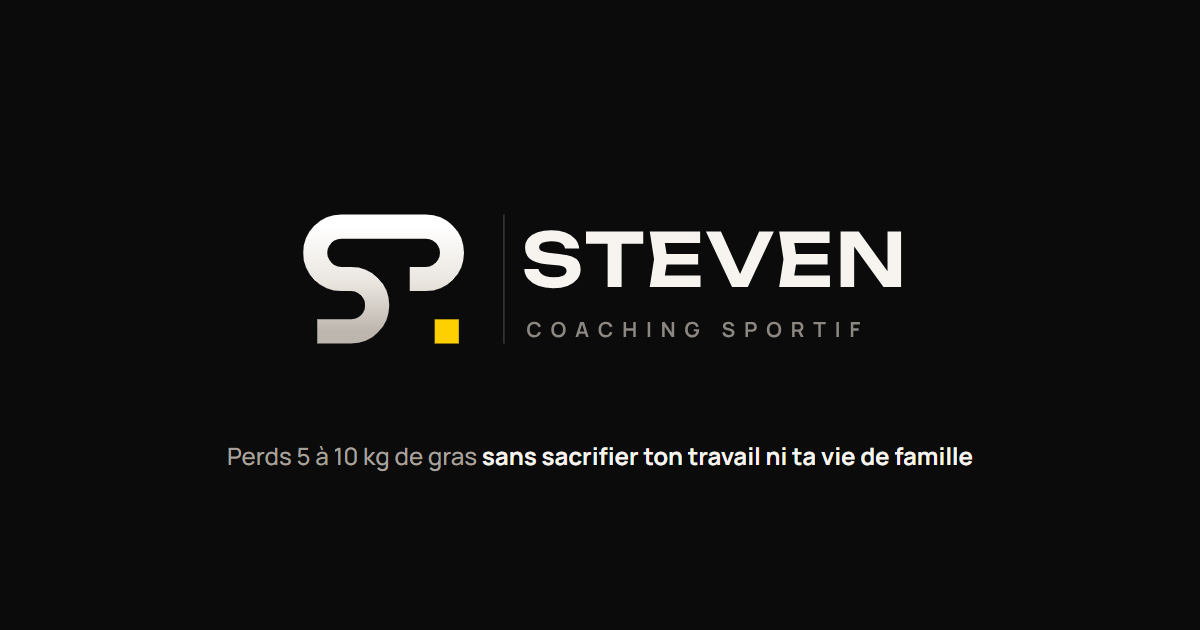
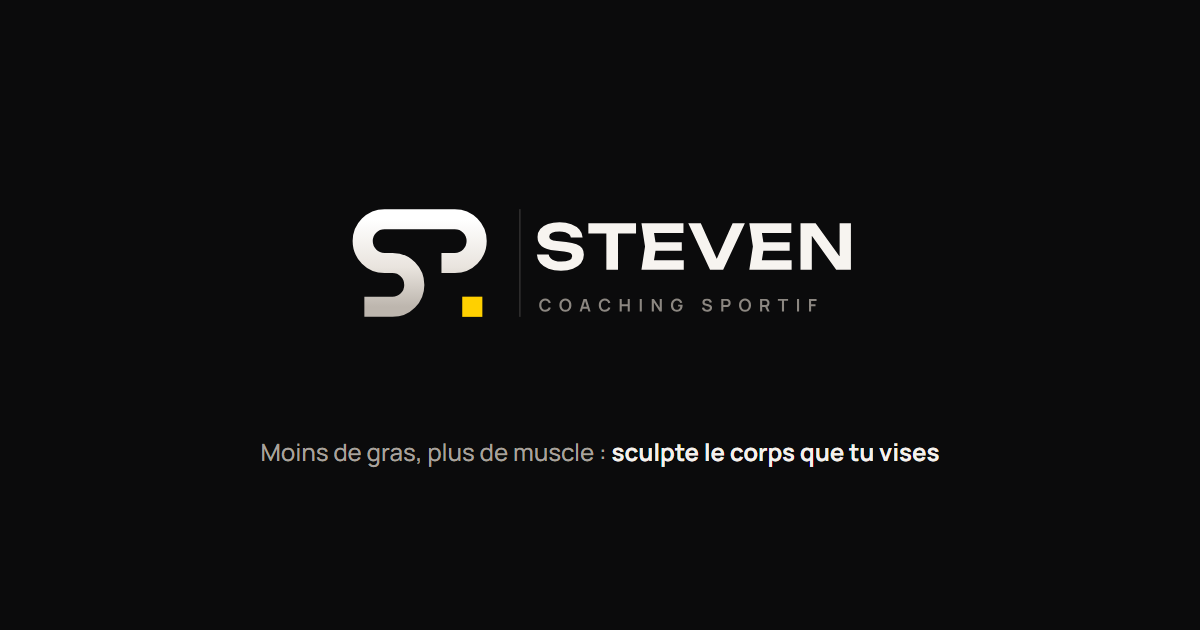
Nouveau positionnement : coaching pour femmes et hommes qui veulent sculpter leur corps
Textes de la page réécrits (perdre du gras, gagner du muscle), FAQ adaptée,
questionnaire avec genre et niveau d'entraînement, exemples de résultats mixtes
et nouvelle image de partage.

Changed region(s): [[0.2467, 0.3317, 0.7708, 0.5429], [0.185, 0.6937, 0.8325, 0.754]]

diff --git a/index.html b/index.html
@@ -3,14 +3,14 @@
 <head>
 <meta charset="utf-8">
 <meta name="viewport" content="width=device-width, initial-scale=1">
-<title>Steven Coaching · Coaching sportif pour hommes actifs de 30 ans et plus</title>
-<meta name="description" content="Perds 5 à 10 kg de gras avec un plan d'entraînement et de nutrition construit autour de ton emploi du temps. Suivi hebdomadaire et accès direct à Steven sur WhatsApp.">
+<title>Steven Coaching · Coaching en ligne pour sculpter ton corps</title>
+<meta name="description" content="Perds du gras, gagne du muscle et sculpte ta silhouette avec un programme d'entraînement et de nutrition sur mesure, pour femmes et hommes. Bilan chaque semaine et accès direct à Steven sur WhatsApp.">
 <meta name="theme-color" content="#131209">
 <link rel="icon" href="favicon.svg" type="image/svg+xml">
 <link rel="apple-touch-icon" href="assets/apple-touch-icon.png">
 <meta property="og:type" content="website">
-<meta property="og:title" content="Steven Coaching · Coaching sportif pour hommes actifs">
-<meta property="og:description" content="Un plan d'entraînement et de nutrition construit autour de ta vraie vie. Réponds à 8 questions pour vérifier ton éligibilité.">
+<meta property="og:title" content="Steven Coaching · Sculpte le corps que tu vises">
+<meta property="og:description" content="Moins de gras, plus de muscle : un programme d'entraînement et de nutrition sur mesure, suivi chaque semaine. Réponds à 8 questions pour vérifier ton éligibilité.">
 <meta property="og:image" content="assets/og-image.png">
 <meta name="twitter:card" content="summary_large_image">
 <link rel="preconnect" href="https://fonts.googleapis.com">
@@ -48,15 +48,15 @@
   <!-- 1. Hero -->
   <section class="hero">
     <div class="container">
-      <span class="badge rise"><span class="pulse"></span>Pour les hommes actifs de 30 ans et plus</span>
-      <h1 class="h1" id="heroTitle">Perds 5 à 10 kg de gras<br class="br-md"> sans sacrifier ton travail<br class="br-md"> ni ta vie de famille</h1>
-      <p class="lede rise">Un plan d'entraînement et de nutrition construit autour de ton agenda réel, ajusté chaque semaine avec moi. Pas de séances de deux heures, pas de régime intenable.</p>
+      <span class="badge rise"><span class="pulse"></span>Coaching en ligne pour femmes et hommes</span>
+      <h1 class="h1" id="heroTitle">Moins de gras,<br> plus de muscle :<br> sculpte le corps<br> que tu vises</h1>
+      <p class="lede rise">Un programme d'entraînement et de nutrition taillé pour ton corps, ton niveau et ton objectif. Ajusté chaque semaine avec moi, jusqu'à ce que ton reflet te donne raison.</p>
       <div class="hero-actions rise">
         <a href="#postuler" class="btn btn-primary">Vérifier mon éligibilité <i class="ph ph-arrow-right"></i></a>
         <span class="small">8 questions · 3 minutes · réponse sous 24h</span>
       </div>
       <div class="proof-row rise">
-        <span><i class="ph-fill ph-users-three"></i><strong data-proof-clients>100+</strong>&nbsp;hommes accompagnés</span>
+        <span><i class="ph-fill ph-users-three"></i><strong data-proof-clients>100+</strong>&nbsp;élèves accompagnés</span>
         <span><i class="ph-fill ph-calendar-check"></i>Bilan chaque semaine</span>
         <span><i class="ph-fill ph-whatsapp-logo"></i>Accès direct sur WhatsApp</span>
       </div>
@@ -77,26 +77,26 @@
     <div class="container">
       <div class="section-head center reveal">
         <span class="eyebrow">Le vrai problème</span>
-        <h2 class="h2">Tu t'entraînes déjà.<br class="br-md"> Ton corps, lui, ne bouge plus.</h2>
-        <p class="lede">Ce n'est presque jamais une question d'effort. C'est l'absence d'un plan pensé pour ta semaine.</p>
+        <h2 class="h2">Tu transpires à chaque séance.<br class="br-md"> Ton reflet, lui, ne change pas.</h2>
+        <p class="lede">Le problème vient rarement de ta motivation. Il vient de l'absence d'un plan précis pour ton corps et ton objectif.</p>
       </div>
       <div class="grid grid-2 reveal-group">
         <div class="card">
-          <h3 class="h3"><i class="ph ph-x-circle" style="color:var(--faint)"></i>Seul, sans cadre</h3>
+          <h3 class="h3"><i class="ph ph-x-circle" style="color:var(--faint)"></i>Sans plan précis</h3>
           <ul class="list bad">
-            <li><i class="ph ph-minus"></i>Des séances improvisées selon l'humeur du jour</li>
-            <li><i class="ph ph-minus"></i>Une alimentation sérieuse en semaine, qui lâche le samedi soir</li>
-            <li><i class="ph ph-minus"></i>Aucun repère pour savoir quoi ajuster, ni quand</li>
+            <li><i class="ph ph-minus"></i>Des séances copiées sur Instagram, sans logique de progression</li>
+            <li><i class="ph ph-minus"></i>Des heures de cardio qui fatiguent sans jamais sculpter</li>
+            <li><i class="ph ph-minus"></i>Un régime trop strict, puis l'effet yoyo</li>
             <li><i class="ph ph-minus"></i>Des mois d'efforts pour un miroir qui ne change pas</li>
           </ul>
         </div>
         <div class="card is-good">
           <h3 class="h3"><i class="ph-fill ph-check-circle" style="color:var(--ok)"></i>Avec ton plan sur mesure</h3>
           <ul class="list good">
-            <li><i class="ph ph-check"></i>Des séances calées sur ton temps réellement disponible</li>
-            <li><i class="ph ph-check"></i>Une nutrition souple qui tient avec les repas pro et les sorties</li>
-            <li><i class="ph ph-check"></i>Un bilan chaque semaine et des ajustements précis</li>
-            <li><i class="ph ph-check"></i>Des résultats visibles, semaine après semaine</li>
+            <li><i class="ph ph-check"></i>Un programme construit pour ton objectif : affiner, muscler ou les deux</li>
+            <li><i class="ph ph-check"></i>Une nutrition qui fait fondre le gras sans te priver de tout</li>
+            <li><i class="ph ph-check"></i>Des charges qui progressent pour des muscles qui se dessinent</li>
+            <li><i class="ph ph-check"></i>Un bilan chaque semaine et des résultats que tu vois dans le miroir</li>
           </ul>
         </div>
       </div>
@@ -106,7 +106,7 @@
   <!-- 3. Phrase révélée mot à mot -->
   <section class="tagline" aria-label="Notre conviction">
     <div class="container">
-      <p id="tagline">Ce n'est pas ta volonté qui coince. C'est <span class="accent">l'absence d'un plan</span> taillé pour ta vraie vie.</p>
+      <p id="tagline">Un corps sculpté ne doit rien au hasard. Il naît <span class="accent">d'un plan précis</span> suivi semaine après semaine.</p>
     </div>
   </section>
 
@@ -116,7 +116,7 @@
       <div class="carousel-head section-head reveal">
         <div>
           <span class="eyebrow">Résultats d'élèves</span>
-          <h2 class="h2">Des agendas pleins.<br class="br-md"> Des corps qui changent quand même.</h2>
+          <h2 class="h2">Des femmes et des hommes<br class="br-md"> qui ont redessiné leur silhouette</h2>
         </div>
       </div>
       <div class="carousel reveal" data-carousel>
@@ -137,16 +137,16 @@
     <div class="container">
       <div class="section-head center reveal">
         <span class="eyebrow">L'accompagnement</span>
-        <h2 class="h2">Trois mois où tu n'as<br class="br-md"> plus rien à deviner</h2>
-        <p class="lede">Chaque élément est là pour une raison : t'éviter de stagner et te faire gagner du temps.</p>
+        <h2 class="h2">Trois mois où chaque séance<br class="br-md"> te rapproche de ton objectif</h2>
+        <p class="lede">Tout est pensé pour une seule chose : que tu perdes du gras, que tu gagnes du muscle et que tu ne stagnes jamais.</p>
       </div>
       <div class="grid grid-3 reveal-group">
-        <article class="card feature hover-lift"><div class="icon-tile"><i class="ph ph-calendar-dots"></i></div><h3 class="h3">Un plan autour de ton agenda</h3><p>Séances et nutrition calées sur tes horaires, tes contraintes et ton objectif.</p></article>
-        <article class="card feature hover-lift"><div class="icon-tile"><i class="ph ph-chart-line-up"></i></div><h3 class="h3">Un bilan chaque semaine</h3><p>On lit tes chiffres ensemble et on corrige le tir avant que tu ne stagnes.</p></article>
+        <article class="card feature hover-lift"><div class="icon-tile"><i class="ph ph-barbell"></i></div><h3 class="h3">Un programme taillé pour ton corps</h3><p>Exercices, volume et intensité choisis selon ton niveau et les zones que tu veux sculpter. Tout est dans ton application de suivi.</p></article>
+        <article class="card feature hover-lift"><div class="icon-tile"><i class="ph ph-bowl-food"></i></div><h3 class="h3">Une nutrition sans privation</h3><p>Calories et protéines calculées pour fondre ou construire, avec des repas que tu aimes vraiment.</p></article>
         <article class="card feature hover-lift"><div class="icon-tile"><i class="ph ph-video-camera"></i></div><h3 class="h3">Ta technique corrigée en vidéo</h3><p>Filme tes exercices, je te renvoie des corrections précises pour progresser sans te blesser.</p></article>
-        <article class="card feature hover-lift"><div class="icon-tile"><i class="ph ph-whatsapp-logo"></i></div><h3 class="h3">Une réponse rapide sur WhatsApp</h3><p>Un resto, un déplacement, un doute : tu sais quoi faire sans attendre le prochain bilan.</p></article>
-        <article class="card feature hover-lift"><div class="icon-tile"><i class="ph ph-device-mobile"></i></div><h3 class="h3">Une application de suivi</h3><p>Programme, progression et consignes réunis au même endroit, dans ta poche.</p></article>
-        <article class="card feature hover-lift"><div class="icon-tile"><i class="ph ph-users-three"></i></div><h3 class="h3">Le groupe des élèves</h3><p>Tu avances avec des hommes qui ont les mêmes objectifs et les mêmes contraintes.</p></article>
+        <article class="card feature hover-lift"><div class="icon-tile"><i class="ph ph-whatsapp-logo"></i></div><h3 class="h3">Une réponse rapide sur WhatsApp</h3><p>Un resto, une séance qui coince, un doute : tu sais quoi faire sans attendre le prochain bilan.</p></article>
+        <article class="card feature hover-lift"><div class="icon-tile"><i class="ph ph-users-three"></i></div><h3 class="h3">Le groupe des élèves</h3><p>Tu avances avec des personnes qui visent le même objectif que toi. La motivation devient contagieuse.</p></article>
+        <article class="card feature hover-lift"><div class="icon-tile"><i class="ph ph-chart-line-up"></i></div><h3 class="h3">Un bilan chaque semaine</h3><p>Mesures, photos et ressentis : on lit tout ensemble et on ajuste avant que tu ne stagnes.</p></article>
       </div>
     </div>
   </section>
@@ -159,8 +159,8 @@
         <h2 class="h2">Trois étapes pour démarrer</h2>
       </div>
       <ol class="grid grid-3 steps reveal-group" style="list-style:none">
-        <li class="card step-card"><div class="num">1</div><h3 class="h3">Tu réponds aux 8 questions</h3><p class="muted">Trois minutes pour me décrire ta situation, ton objectif et tes contraintes.</p></li>
-        <li class="card step-card"><div class="num">2</div><h3 class="h3">On fait un appel de 30 minutes</h3><p class="muted">Gratuit et sans engagement. On regarde ensemble ce qui bloque et ce qui est réaliste.</p></li>
+        <li class="card step-card"><div class="num">1</div><h3 class="h3">Tu réponds aux 8 questions</h3><p class="muted">Trois minutes pour me décrire ton objectif, ton niveau et ton rythme de vie.</p></li>
+        <li class="card step-card"><div class="num">2</div><h3 class="h3">On fait un appel de 30 minutes</h3><p class="muted">Gratuit et sans engagement. On fait le point sur ton corps, ce qui bloque et ce qui est réaliste.</p></li>
         <li class="card step-card"><div class="num">3</div><h3 class="h3">Ton plan démarre</h3><p class="muted">Si on travaille ensemble, tu reçois ton programme et ton premier bilan est fixé.</p></li>
       </ol>
     </div>
@@ -191,39 +191,48 @@
 
             <fieldset class="step" data-idx="0" style="border:0">
               <legend class="step-title">Quel est ton objectif principal ?</legend>
-              <p class="step-note">Tes réponses m'aident à comprendre ta situation avant toute proposition.</p>
+              <p class="step-note">Tes réponses m'aident à comprendre ton point de départ avant toute proposition.</p>
               <div class="options">
                 <label class="opt"><input type="radio" name="objectif" value="Perdre du gras" required><span class="radio"></span>Perdre du gras</label>
                 <label class="opt"><input type="radio" name="objectif" value="Gagner du muscle"><span class="radio"></span>Gagner du muscle</label>
-                <label class="opt"><input type="radio" name="objectif" value="Les deux (recomposition)"><span class="radio"></span>Les deux à la fois</label>
-                <label class="opt"><input type="radio" name="objectif" value="Repartir après un arrêt"><span class="radio"></span>Repartir après un arrêt</label>
+                <label class="opt"><input type="radio" name="objectif" value="Sculpter mon corps (perdre du gras et gagner du muscle)"><span class="radio"></span>Les deux : sculpter mon corps</label>
+                <label class="opt"><input type="radio" name="objectif" value="Tonifier et affiner ma silhouette"><span class="radio"></span>Tonifier et affiner ma silhouette</label>
               </div>
             </fieldset>
 
             <fieldset class="step" data-idx="1" hidden style="border:0">
-              <legend class="step-title">Depuis combien de temps tu stagnes malgré tes efforts ?</legend>
+              <legend class="step-title">Tu es ?</legend>
               <div class="options">
-                <label class="opt"><input type="radio" name="dureeBlocage" value="Moins de 3 mois" required><span class="radio"></span>Moins de 3 mois</label>
-                <label class="opt"><input type="radio" name="dureeBlocage" value="3 à 6 mois"><span class="radio"></span>Entre 3 et 6 mois</label>
-                <label class="opt"><input type="radio" name="dureeBlocage" value="6 à 12 mois"><span class="radio"></span>Entre 6 et 12 mois</label>
-                <label class="opt"><input type="radio" name="dureeBlocage" value="Plus d'un an"><span class="radio"></span>Plus d'un an</label>
+                <label class="opt"><input type="radio" name="genre" value="Une femme" required><span class="radio"></span>Une femme</label>
+                <label class="opt"><input type="radio" name="genre" value="Un homme"><span class="radio"></span>Un homme</label>
               </div>
               <div class="step-actions"><button type="button" class="btn btn-ghost step-back"><i class="ph ph-arrow-left"></i>Retour</button></div>
             </fieldset>
 
             <fieldset class="step" data-idx="2" hidden style="border:0">
-              <legend class="step-title">Quel a été ton principal frein jusqu'ici ?</legend>
+              <legend class="step-title">Quel est ton niveau d'entraînement ?</legend>
               <div class="options">
-                <label class="opt"><input type="radio" name="obstacle" value="Pas de plan clair" required><span class="radio"></span>Pas de plan clair ni de structure</label>
-                <label class="opt"><input type="radio" name="obstacle" value="Manque de temps"><span class="radio"></span>Un vrai manque de temps</label>
-                <label class="opt"><input type="radio" name="obstacle" value="Alimentation"><span class="radio"></span>L'alimentation, surtout le samedi soir</label>
-                <label class="opt"><input type="radio" name="obstacle" value="Régularité"><span class="radio"></span>La régularité sur la durée</label>
+                <label class="opt"><input type="radio" name="niveau" value="Débutant" required><span class="radio"></span>Je débute ou presque</label>
+                <label class="opt"><input type="radio" name="niveau" value="Je m'entraîne mais je stagne"><span class="radio"></span>Je m'entraîne mais je stagne</label>
+                <label class="opt"><input type="radio" name="niveau" value="Reprise après une pause"><span class="radio"></span>Je reprends après une pause</label>
+                <label class="opt"><input type="radio" name="niveau" value="Confirmé, je veux passer un cap"><span class="radio"></span>Je m'entraîne sérieusement et je veux passer un cap</label>
               </div>
               <div class="step-actions"><button type="button" class="btn btn-ghost step-back"><i class="ph ph-arrow-left"></i>Retour</button></div>
             </fieldset>
 
             <fieldset class="step" data-idx="3" hidden style="border:0">
-              <legend class="step-title">Si le plan te convient, tu es prêt à investir dans un accompagnement ?</legend>
+              <legend class="step-title">Quel a été ton principal frein jusqu'ici ?</legend>
+              <div class="options">
+                <label class="opt"><input type="radio" name="obstacle" value="Pas de programme clair" required><span class="radio"></span>Pas de programme clair ni de progression</label>
+                <label class="opt"><input type="radio" name="obstacle" value="Alimentation"><span class="radio"></span>L'alimentation et les craquages</label>
+                <label class="opt"><input type="radio" name="obstacle" value="Régularité"><span class="radio"></span>La régularité sur la durée</label>
+                <label class="opt"><input type="radio" name="obstacle" value="Manque de temps"><span class="radio"></span>Le manque de temps</label>
+              </div>
+              <div class="step-actions"><button type="button" class="btn btn-ghost step-back"><i class="ph ph-arrow-left"></i>Retour</button></div>
+            </fieldset>
+
+            <fieldset class="step" data-idx="4" hidden style="border:0">
+              <legend class="step-title">Si le plan te correspond, tu es d'accord pour investir dans ton accompagnement ?</legend>
               <div class="options">
                 <label class="opt"><input type="radio" name="pretInvestir" value="Oui, si c'est adapté" required><span class="radio"></span>Oui, si c'est vraiment adapté à moi</label>
                 <label class="opt"><input type="radio" name="pretInvestir" value="Je dois y réfléchir"><span class="radio"></span>Il faut que j'y réfléchisse</label>
@@ -232,7 +241,7 @@
               <div class="step-actions"><button type="button" class="btn btn-ghost step-back"><i class="ph ph-arrow-left"></i>Retour</button></div>
             </fieldset>
 
-            <fieldset class="step" data-idx="4" hidden style="border:0">
+            <fieldset class="step" data-idx="5" hidden style="border:0">
               <legend class="step-title">Tu voudrais démarrer quand ?</legend>
               <div class="options">
                 <label class="opt"><input type="radio" name="timing" value="Dès maintenant" required><span class="radio"></span>Dès que possible</label>
@@ -243,7 +252,7 @@
               <div class="step-actions"><button type="button" class="btn btn-ghost step-back"><i class="ph ph-arrow-left"></i>Retour</button></div>
             </fieldset>
 
-            <fieldset class="step" data-idx="5" hidden style="border:0">
+            <fieldset class="step" data-idx="6" hidden style="border:0">
               <legend class="step-title">Quelques mesures avant tes coordonnées</legend>
               <div class="grid-fields" style="margin-top:24px">
                 <label class="field">Âge<input type="number" name="age" min="16" max="90" inputmode="numeric" required><span class="field-error"></span></label>
@@ -254,17 +263,6 @@
                 <button type="button" class="btn btn-ghost step-back"><i class="ph ph-arrow-left"></i>Retour</button>
                 <button type="button" class="btn btn-primary step-next">Continuer <i class="ph ph-arrow-right"></i></button>
               </div>
-            </fieldset>
-
-            <fieldset class="step" data-idx="6" hidden style="border:0">
-              <legend class="step-title">Quelle est ta situation professionnelle ?</legend>
-              <div class="options">
-                <label class="opt"><input type="radio" name="situationPro" value="Salarié" required><span class="radio"></span>Salarié</label>
-                <label class="opt"><input type="radio" name="situationPro" value="Indépendant ou chef d'entreprise"><span class="radio"></span>Indépendant ou chef d'entreprise</label>
-                <label class="opt"><input type="radio" name="situationPro" value="Cadre ou manager"><span class="radio"></span>Cadre ou manager</label>
-                <label class="opt"><input type="radio" name="situationPro" value="Sans activité"><span class="radio"></span>Sans activité en ce moment</label>
-              </div>
-              <div class="step-actions"><button type="button" class="btn btn-ghost step-back"><i class="ph ph-arrow-left"></i>Retour</button></div>
             </fieldset>
 
             <fieldset class="step" data-idx="7" hidden style="border:0">
@@ -301,11 +299,11 @@
         </div>
         <div class="coach-body">
           <h3 class="h3">Je teste tout sur moi avant de te le transmettre</h3>
-          <p>Je connais les plateaux, les semaines où rien ne bouge et les ajustements qui débloquent vraiment la situation.</p>
+          <p>Sèche, prise de muscle, plateaux : je connais les semaines où rien ne bouge et les ajustements qui débloquent vraiment la situation.</p>
           <h3 class="h3">Ton cas, je l'ai probablement déjà rencontré</h3>
-          <p>Le manager qui enchaîne les réunions, le père qui s'entraîne à 6h, celui qui tient toute la semaine et lâche tout le samedi soir. Je sais où ça bloque et comment le corriger.</p>
+          <p>Celle qui veut galber ses fessiers et affiner sa taille, celui qui veut enfin voir ses abdos, ceux qui tiennent toute la semaine et craquent le samedi soir. Je sais où ça bloque et comment le corriger.</p>
           <h3 class="h3">Aucun modèle tout fait</h3>
-          <p>Volume, calories, fréquence : chaque choix part de ta vie réelle, puis s'ajuste selon tes résultats.</p>
+          <p>Exercices, calories, fréquence : chaque choix part de ton corps et de ta vie réelle, puis s'ajuste selon tes résultats.</p>
         </div>
       </div>
     </div>
@@ -349,9 +347,9 @@
         <h2 class="h2">Ce coaching ne s'adresse<br class="br-md"> pas à tout le monde</h2>
       </div>
       <div class="grid reveal-group">
-        <div class="card"><h3 class="h3">Tu es prêt à fournir l'effort</h3><p class="muted" style="margin-top:8px">Je m'occupe du plan et du suivi. Les séances, c'est toi qui les fais.</p></div>
-        <div class="card"><h3 class="h3">Ta vie n'a pas besoin d'être parfaite</h3><p class="muted" style="margin-top:8px">Travail, voyages, enfants, imprévus : le programme est conçu pour s'y adapter.</p></div>
-        <div class="card"><h3 class="h3">Tu veux un vrai changement, pas un PDF de plus</h3><p class="muted" style="margin-top:8px">Ce qui fait la différence ici, c'est le suivi, les ajustements et la mise en pratique.</p></div>
+        <div class="card"><h3 class="h3">Tu veux vraiment t'investir</h3><p class="muted" style="margin-top:8px">Je m'occupe du plan et du suivi. Les séances et l'assiette, c'est toi qui les assures.</p></div>
+        <div class="card"><h3 class="h3">Ta vie n'a pas besoin d'être parfaite</h3><p class="muted" style="margin-top:8px">Travail, études, enfants, imprévus : le programme s'adapte à ton rythme, pas l'inverse.</p></div>
+        <div class="card"><h3 class="h3">Tu veux un vrai résultat, pas un PDF de plus</h3><p class="muted" style="margin-top:8px">Ce qui fait la différence ici, c'est le suivi, les ajustements et la mise en pratique.</p></div>
       </div>
     </div>
   </section>
@@ -364,9 +362,11 @@
         <h2 class="h2">Tout ce que tu te demandes</h2>
       </div>
       <div class="faq-list reveal-group">
-        <details class="faq-item"><summary>Je m'entraîne depuis des années sans résultat. Ça peut marcher pour moi ?<i class="ph ph-plus"></i></summary><p>C'est le profil le plus fréquent. Quand l'effort est là mais que rien ne bouge, le problème vient presque toujours de la stratégie : volume mal dosé, calories approximatives, aucun ajustement. C'est exactement ce qu'on corrige ensemble.</p></details>
-        <details class="faq-item"><summary>J'ai 40 ans ou plus. Il n'est pas trop tard ?<i class="ph ph-plus"></i></summary><p>Non. La récupération et les priorités changent avec l'âge, donc le plan en tient compte. Beaucoup d'hommes obtiennent leur meilleur physique passé 40 ans, dès qu'ils arrêtent de s'entraîner comme à 20 ans.</p></details>
-        <details class="faq-item"><summary>Mon travail me prend énormément de temps. Je pourrai suivre ?<i class="ph ph-plus"></i></summary><p>Oui. Le programme part de ton temps réellement disponible : trois séances bien construites valent mieux que six bâclées. Ton alimentation est organisée pour tenir avec les déjeuners pro et les déplacements.</p></details>
+        <details class="faq-item"><summary>Je m'entraîne déjà sans voir de résultat. Ça peut marcher pour moi ?<i class="ph ph-plus"></i></summary><p>C'est le profil le plus fréquent. Quand l'effort est là mais que rien ne bouge, le problème vient presque toujours de la stratégie : volume mal dosé, calories approximatives, aucun ajustement. C'est exactement ce qu'on corrige ensemble.</p></details>
+        <details class="faq-item"><summary>Je suis une femme. La musculation va me rendre trop musclée ?<i class="ph ph-plus"></i></summary><p>Non. Prendre beaucoup de volume demande des années d'entraînement ciblé et un excédent calorique volontaire. Avec un programme adapté, tu affines ta taille, tu galbes tes jambes et tes fessiers, et ta silhouette se dessine.</p></details>
+        <details class="faq-item"><summary>Je peux perdre du gras et gagner du muscle en même temps ?<i class="ph ph-plus"></i></summary><p>Oui, surtout si tu débutes ou si tu reprends. C'est la recomposition corporelle : une alimentation bien dosée, assez de protéines et des charges qui progressent. La balance bouge parfois peu, mais ton reflet change vite.</p></details>
+        <details class="faq-item"><summary>Je débute complètement. C'est adapté ?<i class="ph ph-plus"></i></summary><p>Oui. Ton programme part de ton niveau réel, chaque exercice est expliqué et ta technique est corrigée en vidéo. Débuter avec un cadre, c'est éviter des mois d'erreurs.</p></details>
+        <details class="faq-item"><summary>J'ai peu de temps. Je pourrai suivre ?<i class="ph ph-plus"></i></summary><p>Oui. Le programme part de ton temps réellement disponible : trois séances bien construites valent mieux que six bâclées. Ton alimentation est organisée pour tenir avec le travail, les repas à l'extérieur et les sorties.</p></details>
         <details class="faq-item"><summary>À quoi ressemble le suivi au quotidien ?<i class="ph ph-plus"></i></summary><p>Tu suis ton programme dans l'application, tu m'envoies ton bilan chaque semaine et on ajuste. Entre deux bilans, tu peux m'écrire sur WhatsApp dès que tu as une question.</p></details>
         <details class="faq-item"><summary>Combien de temps dure l'accompagnement ?<i class="ph ph-plus"></i></summary><p>Trois mois. C'est le temps qu'il faut pour obtenir des résultats visibles et installer des habitudes qui tiennent sans moi ensuite.</p></details>
         <details class="faq-item"><summary>Je dois aller en salle ?<i class="ph ph-plus"></i></summary><p>Une salle donne plus d'options, mais le plan peut aussi être construit avec du matériel à la maison. On en parle pendant l'appel.</p></details>
@@ -381,7 +381,7 @@
     <div class="container">
       <div class="card reveal">
         <span class="eyebrow">Prochaine étape</span>
-        <h2 class="h2">Tu sais déjà quoi faire.<br class="br-md"> Construisons le cadre pour que ça dure.</h2>
+        <h2 class="h2">Le corps que tu vises est à ta portée.<br class="br-md"> Il te manque seulement le bon plan.</h2>
         <p class="lede">Réponds aux 8 questions. Si ton profil correspond, on en parle de vive voix cette semaine.</p>
         <a href="#postuler" class="btn btn-primary">Vérifier mon éligibilité <i class="ph ph-arrow-right"></i></a>
         <div class="reassure">

diff --git a/assets/app.js b/assets/app.js
@@ -9,16 +9,16 @@ const CONFIG = {
 /* Remplace ces exemples par les vrais résultats de tes élèves (avec leur accord),
    puis passe example à false. Photos : mets le chemin dans before / after. */
 const CASES = [
-  { name: 'Élève 1', meta: '38 ans · cadre', tag: '−9 kg en 4 mois', story: 'Décris la situation de départ : son quotidien, ce qui le bloquait, ce qu\'il avait déjà essayé.', result: '−9 kg', resultNote: 'en 4 mois, sans régime restrictif', before: '', after: '', example: true },
-  { name: 'Élève 2', meta: '42 ans · entrepreneur', tag: '−7 kg en 12 sem.', story: 'Deuxième histoire. Reste concret : métier, âge, obstacle principal et ce qu\'on a changé.', result: '−7 kg', resultNote: 'en 12 semaines', before: '', after: '', example: true },
-  { name: 'Élève 3', meta: '34 ans · salarié', tag: '+6 kg de muscle', story: 'Troisième histoire, par exemple une prise de muscle sans reprendre de gras.', result: '+6 kg', resultNote: 'en 6 mois', before: '', after: '', example: true },
-  { name: 'Élève 4', meta: '46 ans · père de 3 enfants', tag: '−11 kg en 5 mois', story: 'Quatrième histoire. Un profil très chargé montre que le plan s\'adapte à toutes les vies.', result: '−11 kg', resultNote: 'en 5 mois', before: '', after: '', example: true },
+  { name: 'Élève 1', meta: '29 ans · femme', tag: 'Silhouette affinée', story: 'Décris son point de départ : son objectif, ce qui la bloquait, ce qu\'elle avait déjà essayé.', result: '−8 cm', resultNote: 'de tour de taille en 4 mois', before: '', after: '', example: true },
+  { name: 'Élève 2', meta: '33 ans · homme', tag: '+5 kg de muscle', story: 'Une prise de muscle sans reprendre de gras. Précise son niveau de départ et ce qu\'on a changé.', result: '+5 kg', resultNote: 'de muscle en 6 mois', before: '', after: '', example: true },
+  { name: 'Élève 3', meta: '41 ans · femme', tag: 'Recomposition', story: 'Un poids presque stable, mais un corps qui change : moins de gras, des jambes et des fessiers galbés.', result: '−4 kg', resultNote: 'de gras et des muscles dessinés en 5 mois', before: '', after: '', example: true },
+  { name: 'Élève 4', meta: '36 ans · homme', tag: 'Abdos visibles', story: 'Une sèche complète avec un emploi du temps chargé. Raconte ce qui a fait la différence pour lui.', result: '−10 kg', resultNote: 'en 4 mois, abdos visibles', before: '', after: '', example: true },
 ];
 const TRANSFORMATIONS = Array.from({ length: 8 }, (_, i) => ({ label: 'Transformation ' + (i + 1), img: '' }));
 const REVIEWS = [
   { text: 'Colle ici le message d\'un élève : capture WhatsApp, avis Google, retour après un bilan.', name: 'Élève 1', meta: 'Accompagné en 2026', example: true },
-  { text: 'Un avis court et concret fonctionne mieux qu\'un long paragraphe. Garde ses mots à lui.', name: 'Élève 2', meta: 'Accompagné en 2026', example: true },
-  { text: 'Idéalement, un avis qui parle d\'autre chose que du poids : énergie, confiance, sommeil.', name: 'Élève 3', meta: 'Accompagné en 2025', example: true },
+  { text: 'Un avis court et concret fonctionne mieux qu\'un long paragraphe. Garde ses propres mots.', name: 'Élève 2', meta: 'Accompagné en 2026', example: true },
+  { text: 'Idéalement, un avis qui parle d\'autre chose que du poids : confiance, énergie, vêtements qui tombent mieux.', name: 'Élève 3', meta: 'Accompagné en 2025', example: true },
   { text: 'Pense à demander l\'accord de chaque élève avant de publier son avis ou ses photos.', name: 'Élève 4', meta: 'Accompagné en 2025', example: true },
 ];
 

diff --git a/netlify/functions/submission-created.js b/netlify/functions/submission-created.js
@@ -9,9 +9,9 @@ const FROM = process.env.LEAD_FROM || 'Steven Coaching <onboarding@resend.dev>';
 
 const LABELS = {
   firstName: 'Prénom', lastName: 'Nom', phone: 'Téléphone', email: 'Email', instagram: 'Instagram',
-  objectif: 'Objectif principal', dureeBlocage: 'Bloqué depuis', obstacle: 'Principal frein',
+  objectif: 'Objectif principal', genre: 'Genre', niveau: 'Niveau', obstacle: 'Principal frein',
   pretInvestir: 'Prêt à investir', timing: 'Démarrage souhaité',
-  age: 'Âge', taille: 'Taille (cm)', poids: 'Poids (kg)', situationPro: 'Situation professionnelle',
+  age: 'Âge', taille: 'Taille (cm)', poids: 'Poids (kg)',
 };
 const esc = s => String(s).replace(/[&<>"']/g, c => ({ '&': '&amp;', '<': '&lt;', '>': '&gt;', '"': '&quot;', "'": '&#39;' }[c]));
 
